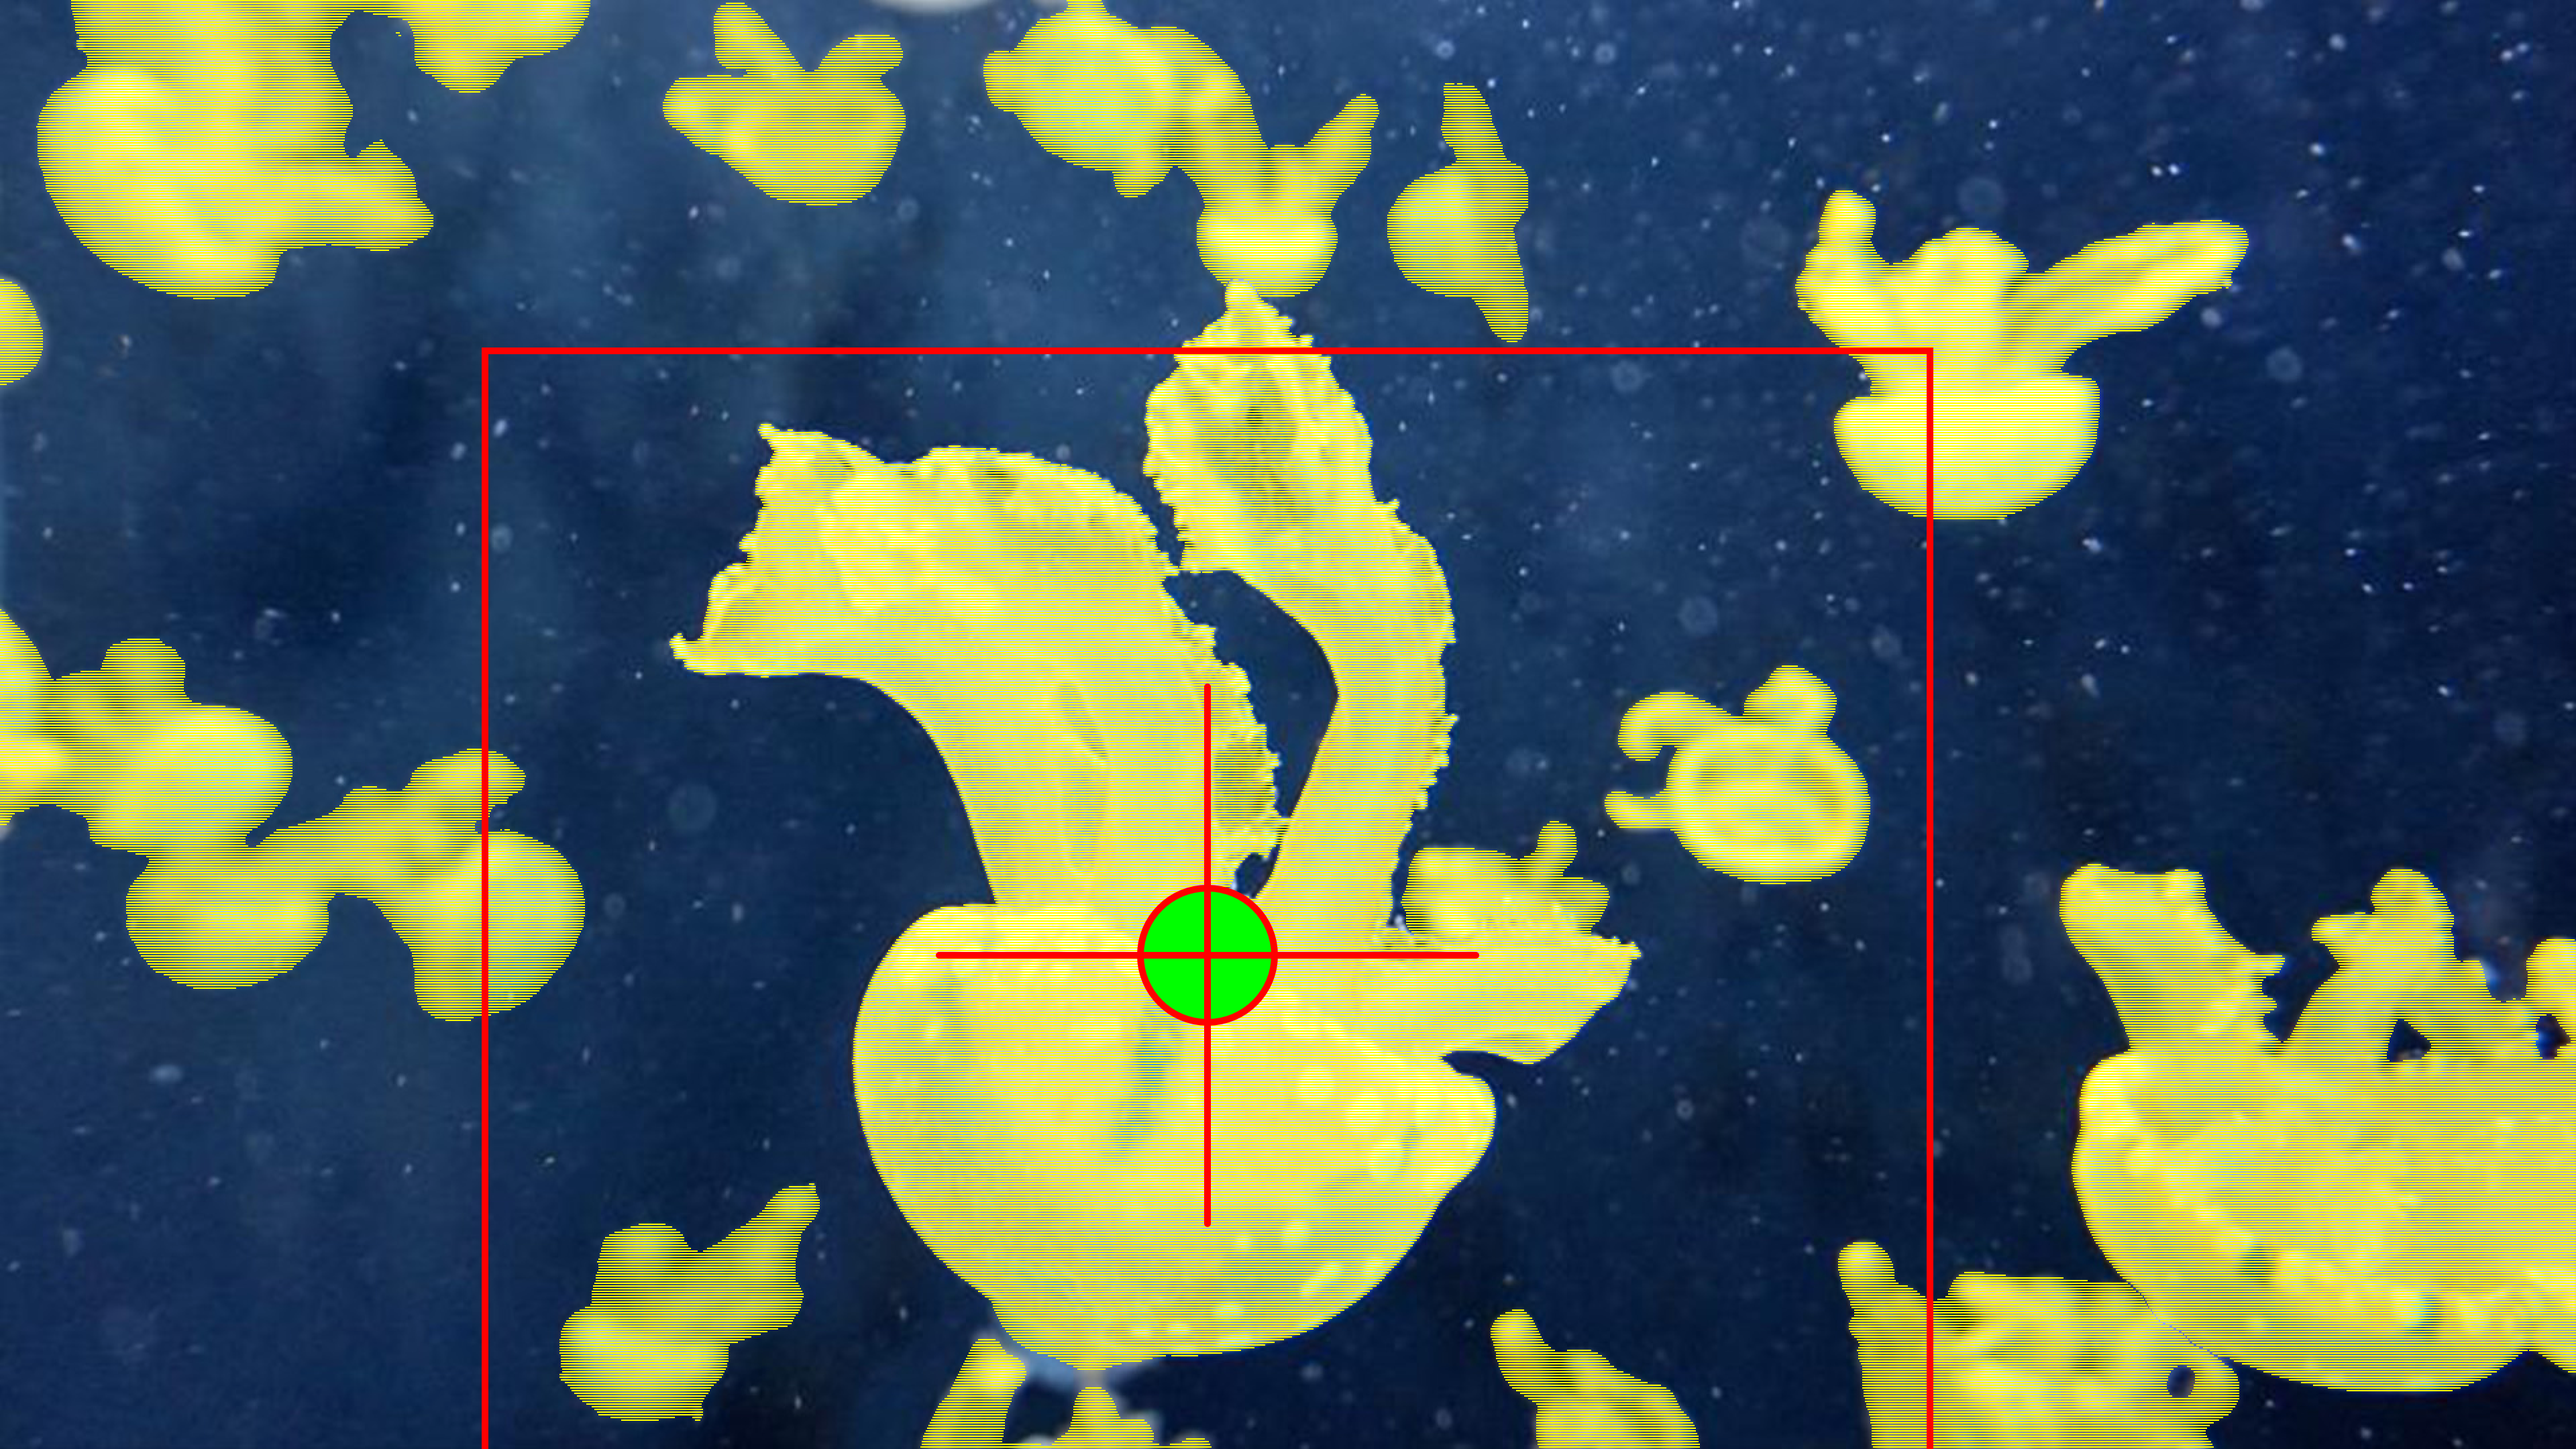
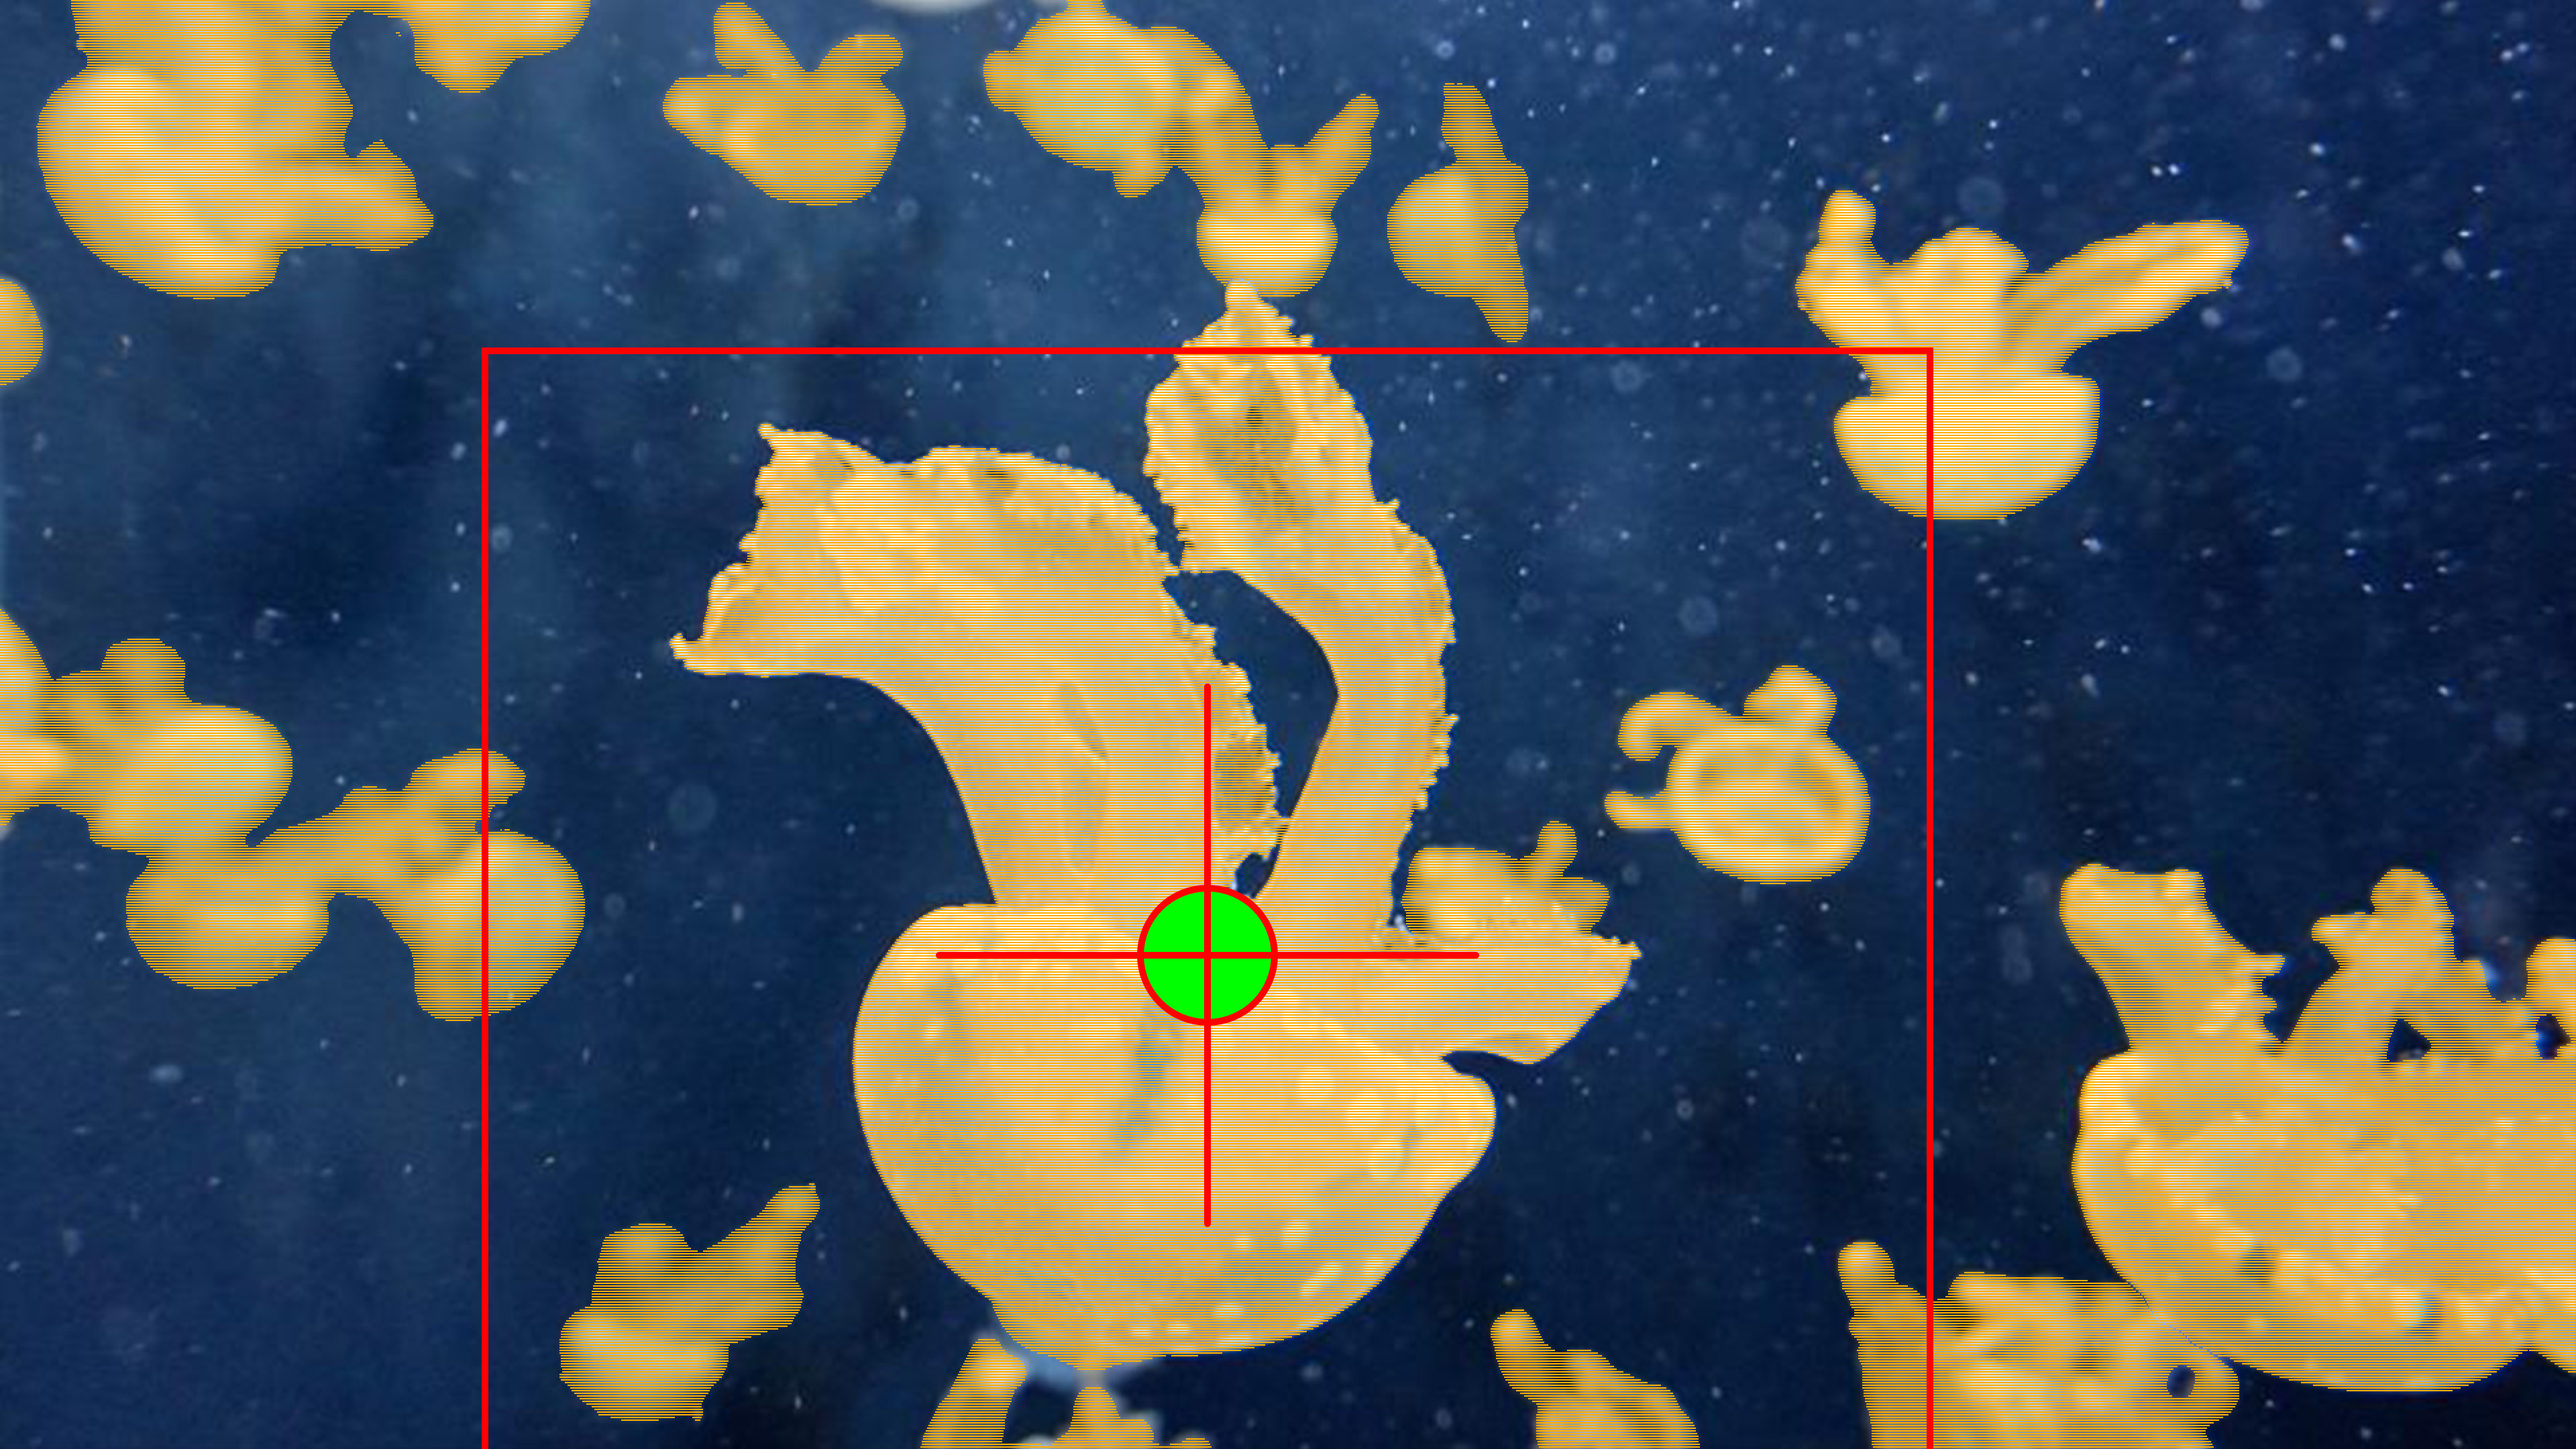
colour change

diff --git a/sketch.js b/sketch.js
@@ -97,7 +97,7 @@ function draw () {
       }
       else {
         if(j%2 == 0) {
-          pix = [255, 255, 0, 255]
+          pix = [255, 175, 0, 255]
         }
         else {
           pix = sourceImg.get(i, j);          
